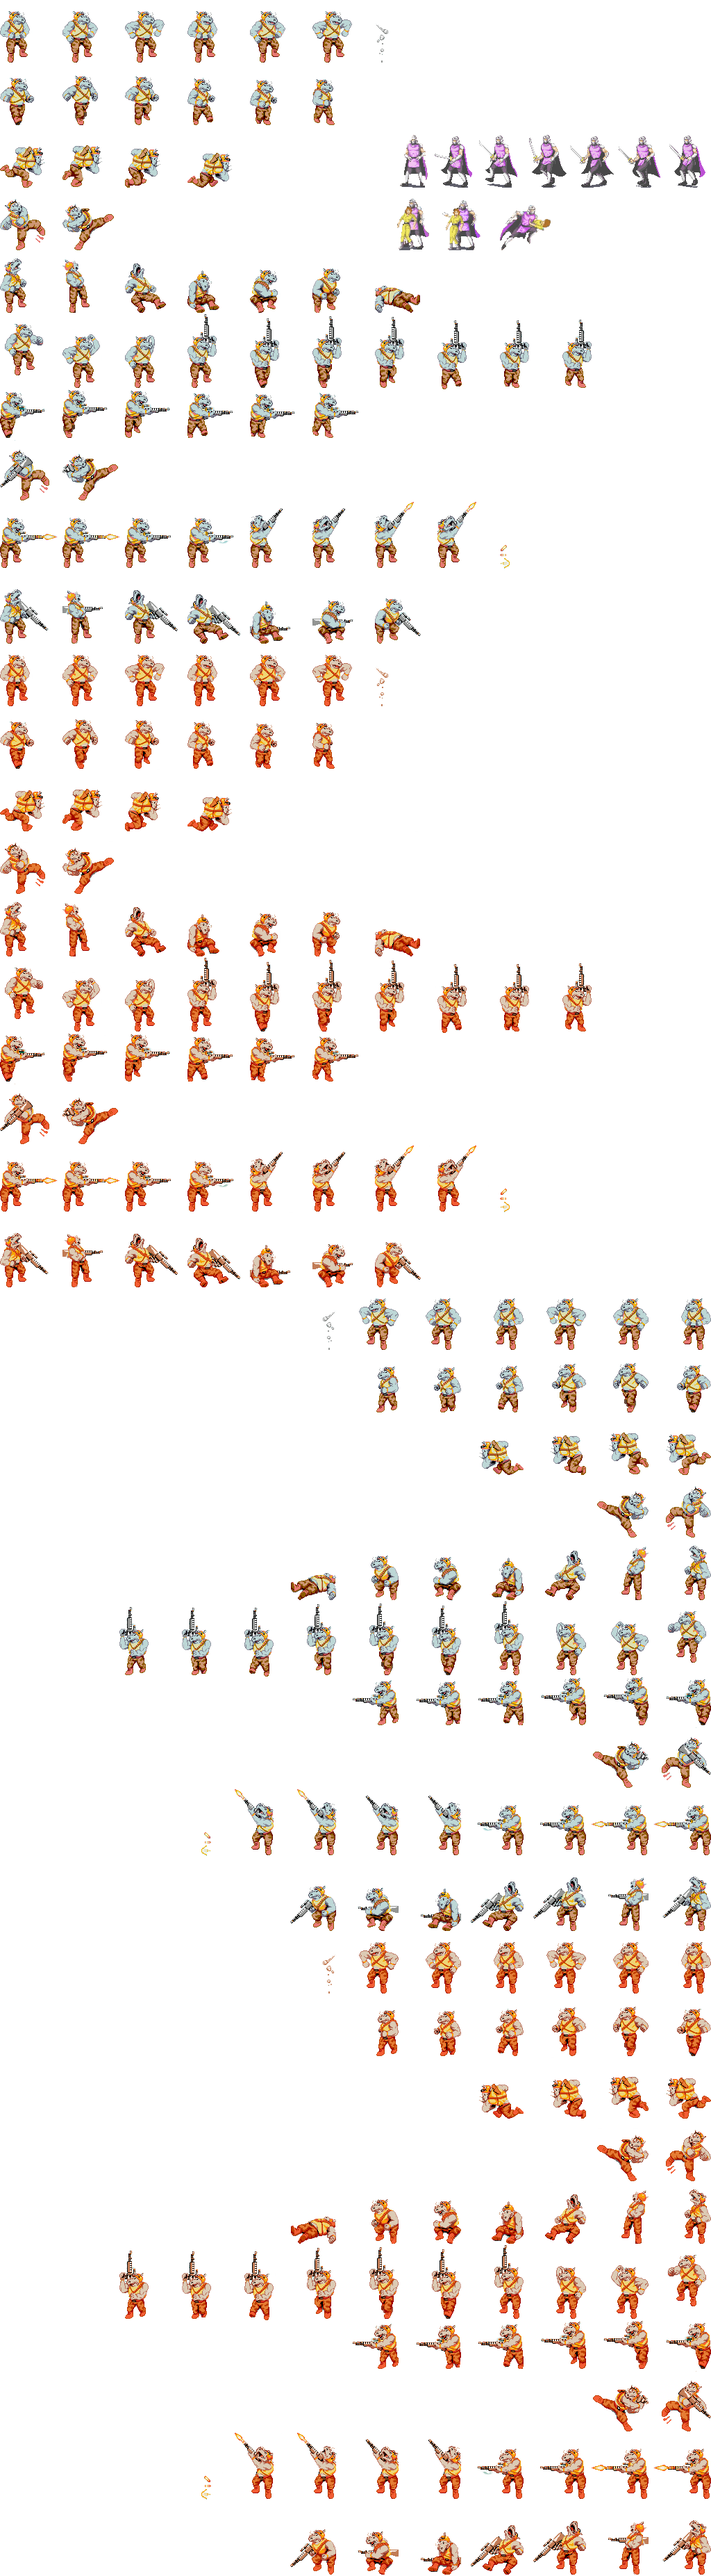
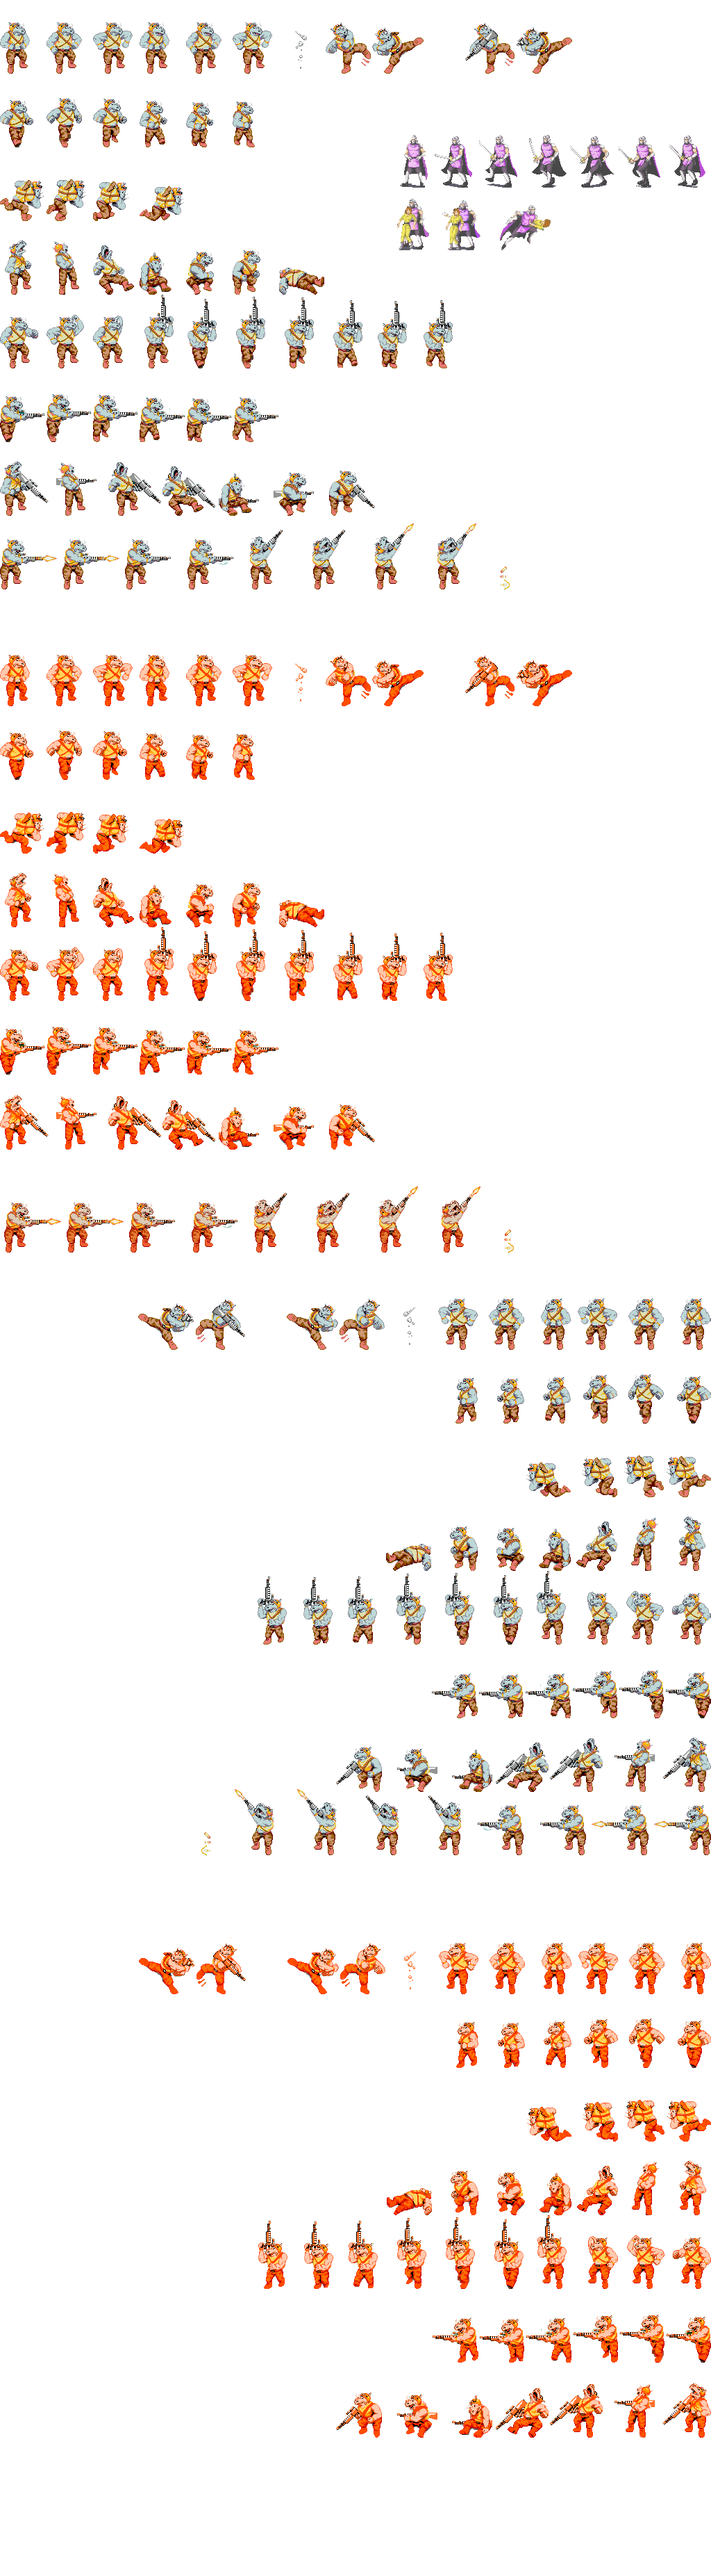
BossAnims

diff --git a/Project_7_Solution/Source/Enemy_Boss.cpp b/Project_7_Solution/Source/Enemy_Boss.cpp
@@ -8,22 +8,113 @@
 Enemy_Boss::Enemy_Boss(int x, int y) : Enemy(x, y)
 {
 
-	// RIGHT
-	rightAnimP.PushBack({ 0, 453, 86, 90 });
-	rightAnimP.PushBack({ 86, 453, 86, 90 });
-	rightAnimP.PushBack({ 86 * 2, 453, 86, 90 });
-	rightAnimP.PushBack({ 86 * 3, 453, 86, 90 });
-	rightAnimP.PushBack({ 86 * 4, 453, 86, 90 });
-	rightAnimP.PushBack({ 86 * 5, 453, 86, 90 });
-	rightAnimP.PushBack({ 86 * 6, 453, 86, 90 });
-	rightAnimP.PushBack({ 86 * 7, 453, 86, 90 });
-	rightAnimP.loop = true;
-	rightAnimP.speed = 0.15f;
+	// IDLE RIGHT
+	idleAnimRB.PushBack({ 0, 0, 67, 106 });
+	idleAnimRB.PushBack({ 67, 0, 67, 106 });
+	idleAnimRB.PushBack({ 67 * 2, 0, 67, 106 });
+	idleAnimRB.PushBack({ 67 * 3, 0, 67, 106 });
+	idleAnimRB.PushBack({ 67 * 4, 0, 67, 106 });
+	idleAnimRB.PushBack({ 67 * 5, 0, 67, 106 });
+	idleAnimRB.loop = true;
+	idleAnimRB.speed = 0.25f;
 
-	
-	//PATH
-	path.PushBack({0.0f, 0.0f }, 45, &jumpLP);
-	
+	// IDLE LEFT
+	idleAnimLB.PushBack({ 957, 1836, 67, 106 });
+	idleAnimLB.PushBack({ 957 - 67 * 1, 1836, 67, 106 });
+	idleAnimLB.PushBack({ 957 - 67 * 2, 1836, 67, 106 });
+	idleAnimLB.PushBack({ 957 - 67 * 3, 1836, 67, 106 });
+	idleAnimLB.PushBack({ 957 - 67 * 4, 1836, 67, 106 });
+	idleAnimLB.PushBack({ 957 - 67 * 5, 1836, 67, 106 });
+	idleAnimLB.loop = true;
+	idleAnimLB.speed = 0.25f;
+
+	// RIGHT
+	rightAnimB.PushBack({ 0, 106, 67, 106 });
+	rightAnimB.PushBack({ 67, 106, 67, 106 });
+	rightAnimB.PushBack({ 67 * 2, 106, 67, 106 });
+	rightAnimB.PushBack({ 67 * 3, 106, 67, 106 });
+	rightAnimB.PushBack({ 67 * 4, 106, 67, 106 });
+	rightAnimB.PushBack({ 67 * 5, 106, 67, 106 });
+	rightAnimB.loop = true;
+	rightAnimB.speed = 0.25f;
+
+	// LEFT
+	leftAnimB.PushBack({ 957, 1942, 67, 106 });
+	leftAnimB.PushBack({ 957 - 67, 1942, 67, 106 });
+	leftAnimB.PushBack({ 957 - 67 * 2, 1942, 67, 106 });
+	leftAnimB.PushBack({ 957 - 67 * 3, 1942, 67, 106 });
+	leftAnimB.PushBack({ 957 - 67 * 4, 1942, 67, 106 });
+	leftAnimB.PushBack({ 957 - 67 * 5, 1942, 67, 106 });
+	leftAnimB.loop = true;
+	leftAnimB.speed = 0.25f;
+
+	// KICK RIGHT
+	kickRB.PushBack({ 469, 0, 67, 106 });
+	kickRB.PushBack({ 469 + 67, 0, 74, 106 });
+	kickRB.loop = true;
+	kickRB.speed = 0.25f;
+
+	// KICK RIGHT GUN
+	kickGunRB.PushBack({ 670, 0, 71, 106 });
+	kickGunRB.PushBack({ 744, 0, 82, 106 });
+	kickGunRB.loop = true;
+	kickGunRB.speed = 0.25f;
+
+	// KICK LEFT
+	kickLB.PushBack({ 487, 1836, 67, 106 });
+	kickLB.PushBack({ 413, 1836, 74, 106 });
+	kickLB.loop = true;
+	kickLB.speed = 0.25f;
+
+	// KICK LEFT GUN
+	kickGunLB.PushBack({ 282, 1836, 71, 106 });
+	kickGunLB.PushBack({ 197, 1836, 82, 106 });
+	kickGunLB.loop = true;
+	kickGunLB.speed = 0.25f;
+
+	// EMBESTIDA LEFT
+	embestidaLB.PushBack({ 957, 2048, 67, 106 });
+	embestidaLB.PushBack({ 957 - 67, 2048, 67, 106 });
+	embestidaLB.PushBack({ 957 - 67 * 2, 2048, 67, 106 });
+	embestidaLB.PushBack({ 957 - 67 * 3, 2048, 67, 106 });
+	embestidaLB.loop = true;
+	embestidaLB.speed = 0.25f;
+
+	// EMBESTIDA RIGHT
+	embestidaRB.PushBack({ 0, 212, 67, 106 });
+	embestidaRB.PushBack({ 67, 212, 67, 106 });
+	embestidaRB.PushBack({ 67 * 2, 212, 67, 106 });
+	embestidaRB.PushBack({ 67 * 3, 212, 67, 106 });
+	embestidaRB.loop = true;
+	embestidaRB.speed = 0.25f;
+
+
+	// HITTED LOW LEFT
+	hittedLowLB.PushBack({ 957, 2154, 67, 106 });
+	hittedLowLB.PushBack({ 957, 2154, 67, 106 });
+	hittedLowLB.loop = true;
+	hittedLowLB.speed = 0.25f;
+
+	// HITTED LOW RIGHT
+	hittedLowRB.PushBack({ 0, 318, 67, 106 });
+	hittedLowRB.PushBack({ 0, 318, 67, 106 });
+	hittedLowRB.loop = true;
+	hittedLowRB.speed = 0.25f;
+
+	// DIE RIGHT
+	dieRB.PushBack({ 0, 318, 67, 106 });
+	dieRB.PushBack({ 67*2, 318, 67, 106 });
+	dieRB.PushBack({ 402, 318, 67, 106 });
+	dieRB.loop = false;
+	dieRB.speed = 0.25f;
+
+	// DIE LEFT
+	dieLB.PushBack({ 957, 2154, 67, 106 });
+	dieLB.PushBack({ 823, 2154, 67, 106 });
+	dieLB.PushBack({ 555, 2154, 67, 106 });
+	dieLB.loop = false;
+	dieLB.speed = 0.25f;
+
 
 	collider = App->collisions->AddCollider({ 0, 0, 38, 16 }, Collider::Type::ENEMY, (Module*)App->enemies);
 	HIT = App->collisions->AddCollider({ 200, 122, 18, 16 }, Collider::Type::ENEMY_HIT, (Module*)App->enemies);
@@ -32,11 +123,6 @@ Enemy_Boss::Enemy_Boss(int x, int y) : Enemy(x, y)
 
 void Enemy_Boss::Update()
 {
-
-	
-	path.Update();
-	position = spawnPos + path.GetRelativePosition();
-	currentAnim = path.GetCurrentAnimation();
 
 	// Call to the base class. It must be called at the end
 	// It will update the collider depending on the position

diff --git a/Project_7_Solution/Source/ModuleEnemies.cpp b/Project_7_Solution/Source/ModuleEnemies.cpp
@@ -36,8 +36,8 @@ bool ModuleEnemies::Start()
 
 	white = App->textures->Load("Assets/Enemies/white_enemy.png");
 	purple = App->textures->Load("Assets/Enemies/purple_enemy.png");
-	orange = App->textures->Load("Assets(Enemies/orange_enemy.png");
-	boss = App->textures->Load("Assets/Enemies/white_enemy.png");
+	orange = App->textures->Load("Assets/Enemies/orange_enemy.png");
+	boss = App->textures->Load("Assets/Enemies/boss.png");
 	ball = App->textures->Load("Assets/Enemies/tile_map_set_stage_1.png.png");
 
 	enemyDamageFX = App->audio->LoadFx("Assets/FX/punch_2.wav");

diff --git a/Project_7_Solution/Source/Enemy_Boss.h b/Project_7_Solution/Source/Enemy_Boss.h
@@ -26,20 +26,23 @@ private:
 	iPoint positionEnemy;
 
 	// Enemy animations
-	Animation leftAnimP,
-		rightAnimP,
-		upAnimRP,
-		upAnimLP,
-		kickLP,
-		kickRP,
-		punchLP,
-		punchRP,
-		jumpLP,
-		jumpRP,
-		hitLP,
-		hitRP,
-		dieFacefwLP,
-		dieFacefwRP;
+	Animation idleAnimLB,
+		idleAnimRB,
+		leftAnimB,
+		rightAnimB,
+		upAnimRB,
+		upAnimLB,
+		kickLB,
+		kickRB,
+		kickGunRB,
+		kickGunLB,
+		embestidaRB,
+		embestidaLB,
+		punchRB,
+		hittedLowLB,
+		hittedLowRB,
+		dieLB,
+		dieRB;
 
 
 
